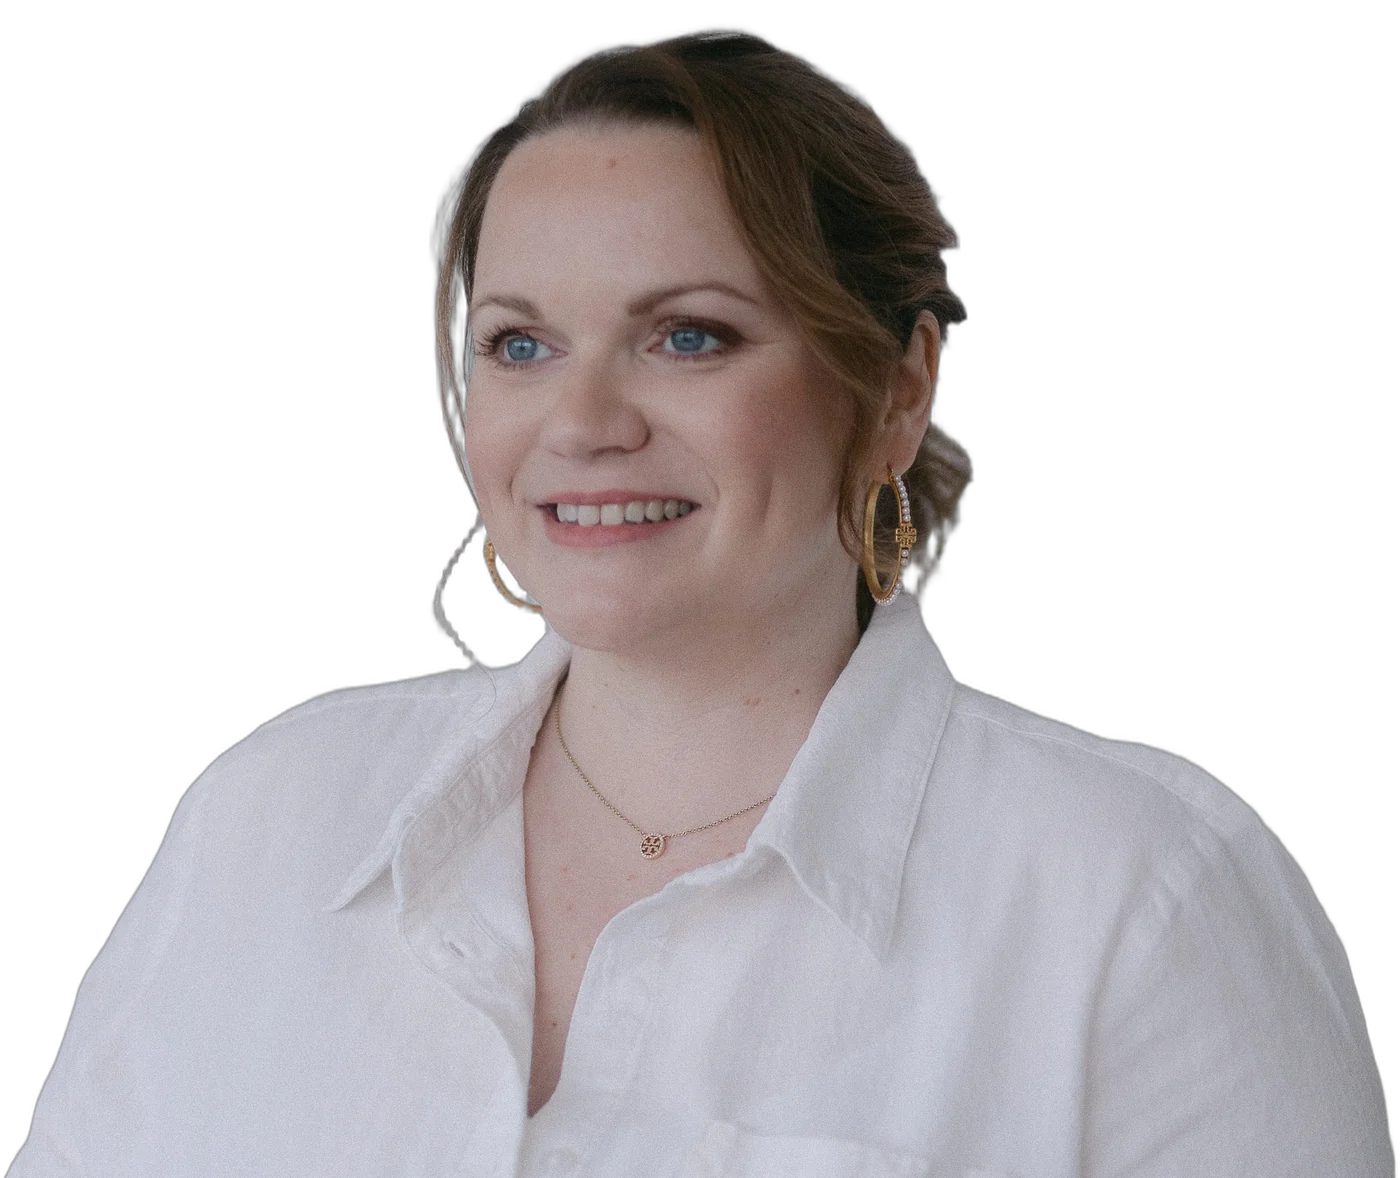
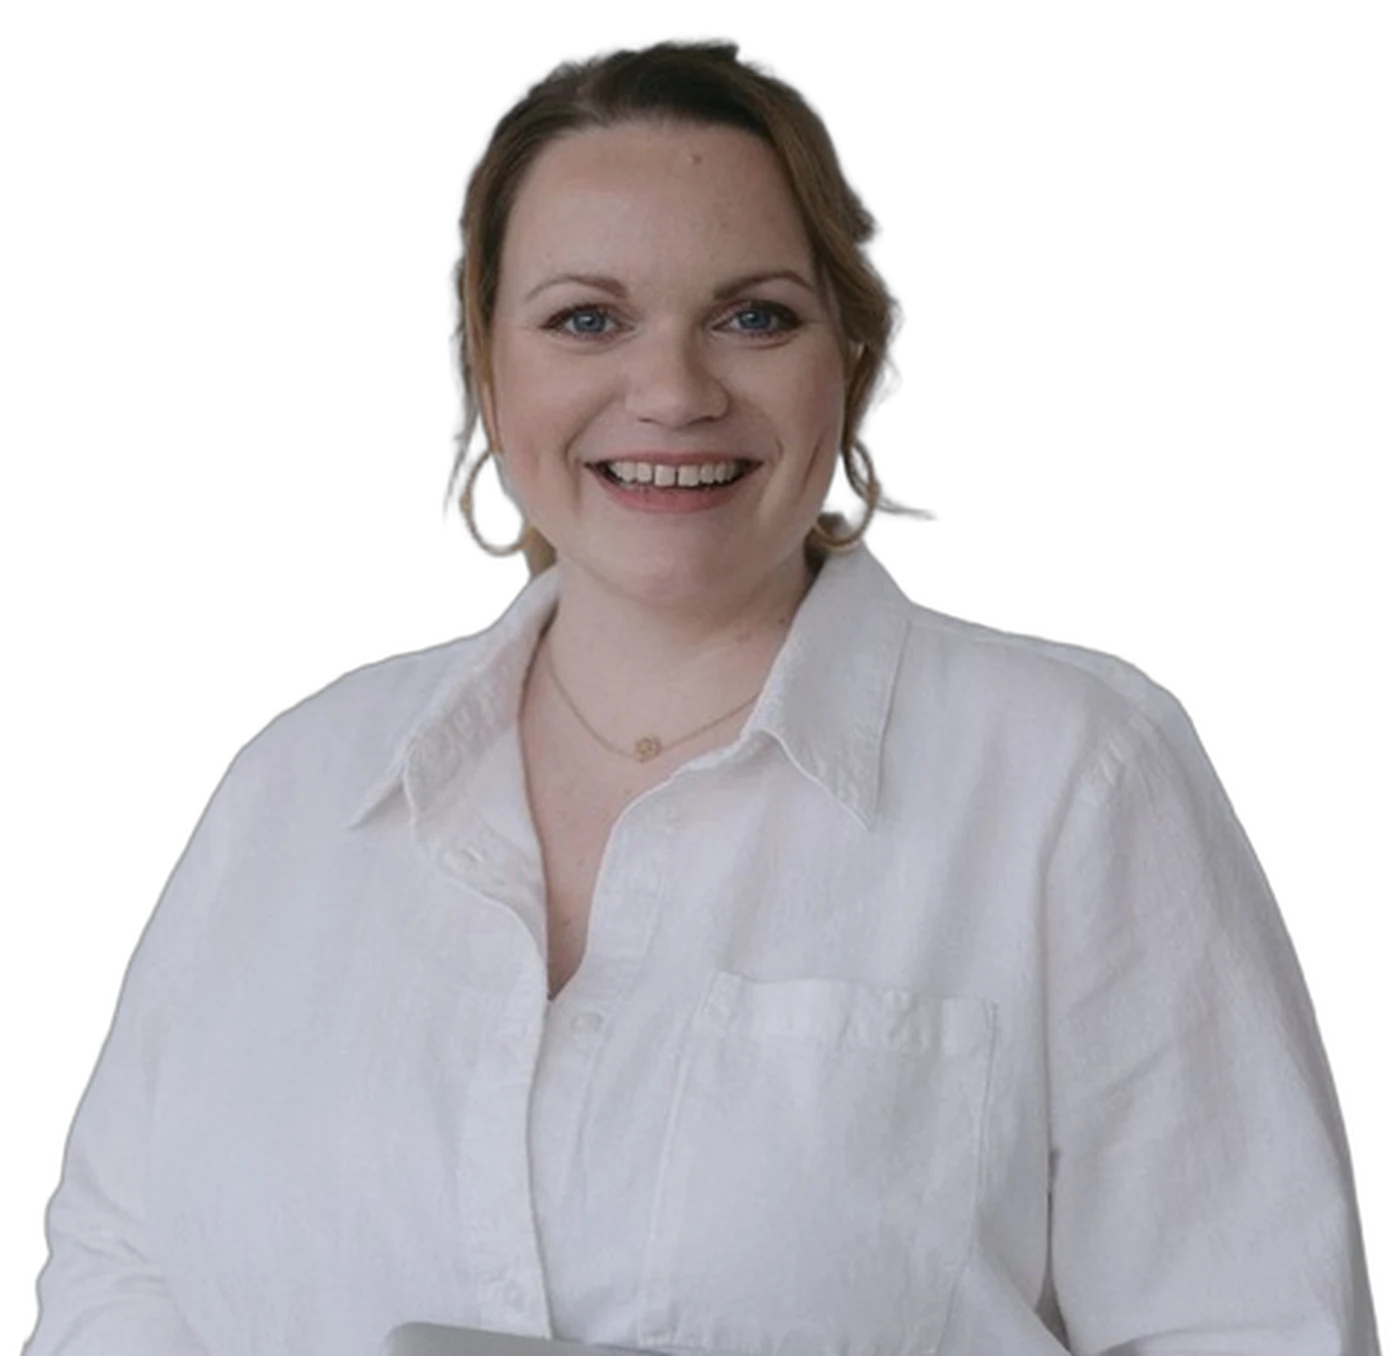
Über uns/Team/Newsletter: image swaps, wider headline, arrow, cleanup
- Über uns: replace the Founder's Story graphic with the new wide
  banner photo, widen the headline below it to use the full section
  width instead of a narrow centered column, and add a hand-drawn
  curved arrow connecting the "Founder's Story" label to the headline.
- Team: swap Stephanie's cutout portrait for the new source photo
  (109.jpg), keeping the "Hi, ich bin Stephanie" caption as is.
- Newsletter (Plan B Post): remove the Deep Dive Community/WhatsApp
  section entirely.

Claude-Session: https://claude.ai/code/session_01NjvXYwXuPSC6ymX2jvEvzR

Changed region(s): [[0.0307, 0.0, 1.0, 1.0], [0.0, 0.9474, 0.0307, 1.0], [0.86, 0.7334, 0.8907, 0.764]]

diff --git a/newsletter.html b/newsletter.html
@@ -54,23 +54,6 @@
       </div>
     </div>
   </section>
-
-  <!-- WHATSAPP MEMBERSHIP CARD -->
-  <section class="section cta whatsapp-cta">
-    <p class="eyebrow eyebrow--light" data-reveal-text>Lieber unverbindlich reinschnuppern?</p>
-    <h2 class="cta__headline" data-reveal-text>Komm in die <em>Deep Dive Community</em></h2>
-    <p class="cta__sub" data-reveal>Direkter Austausch, ehrliche Einblicke, kein Verkaufsdruck.</p>
-
-    <a class="membership-card" href="https://chat.whatsapp.com/IW5fSFVLf0m64qhpKW02oG?s=cl&amp;p=i&amp;mlu=0&amp;ilr=4" target="_blank" rel="noopener noreferrer" data-reveal aria-label="Zur WhatsApp Deep Dive Community">
-      <span class="membership-card__strap"></span>
-      <span class="membership-card__clip"></span>
-      <span class="membership-card__body">
-        <span class="membership-card__eyebrow">Mitgliedskarte</span>
-        <span class="membership-card__title">Deep Dive<br>Community</span>
-        <span class="membership-card__cta">Jetzt beitreten →</span>
-      </span>
-    </a>
-  </section>
 </main>
 
 <footer class="site-footer">

diff --git a/ueber-uns.html b/ueber-uns.html
@@ -30,7 +30,11 @@
     <div class="intro-hero__inner">
       <p class="eyebrow" data-reveal-text data-reveal-onload>Über uns</p>
       <div class="founders-story" data-reveal data-reveal-onload>
-        <img src="assets/images/founders-story.png" alt="Founder's Story – Julia und Stephanie" class="founders-story__img">
+        <img src="assets/images/founders-story.jpg" alt="Founder's Story – Julia und Stephanie" class="founders-story__img">
+        <svg class="founders-story__arrow" viewBox="0 0 140 110" fill="none" xmlns="http://www.w3.org/2000/svg" aria-hidden="true">
+          <path d="M18 14 C 95 -6, 132 46, 92 80" stroke="currentColor" stroke-width="3" stroke-linecap="round"/>
+          <path d="M70 66 L 92 80 L 80 102" stroke="currentColor" stroke-width="3" stroke-linecap="round" stroke-linejoin="round"/>
+        </svg>
       </div>
       <h1 data-reveal-text data-reveal-onload>Bevor wir „Frauen mit Plan B" waren, hatten wir selbst nur Plan A.</h1>
       <div style="max-width: 640px; font-size: 1.1rem;" data-reveal>

diff --git a/css/style.css b/css/style.css
@@ -659,20 +659,32 @@ p { margin: 0 0 1em; }
 }
 .intro-hero h1 {
   text-align: center;
-  max-width: 780px;
+  max-width: none;
   margin-left: auto;
   margin-right: auto;
 }
 .founders-story {
   position: relative;
-  margin: 1.5rem 0 1.25rem;
+  margin: 1.5rem 0 2.25rem;
 }
 .founders-story__img {
   width: 100%;
-  max-width: 560px;
+  max-width: 1100px;
   height: auto;
   display: block;
   margin: 0 auto;
+  border-radius: 8px;
+}
+.founders-story__arrow {
+  position: absolute;
+  left: max(2%, 2.5rem);
+  bottom: -2.75rem;
+  width: 70px;
+  height: auto;
+  color: var(--color-ink);
+}
+@media (max-width: 640px) {
+  .founders-story__arrow { width: 52px; bottom: -2.1rem; }
 }
 
 /* ---------- Über uns: Weg-Story ---------- */
